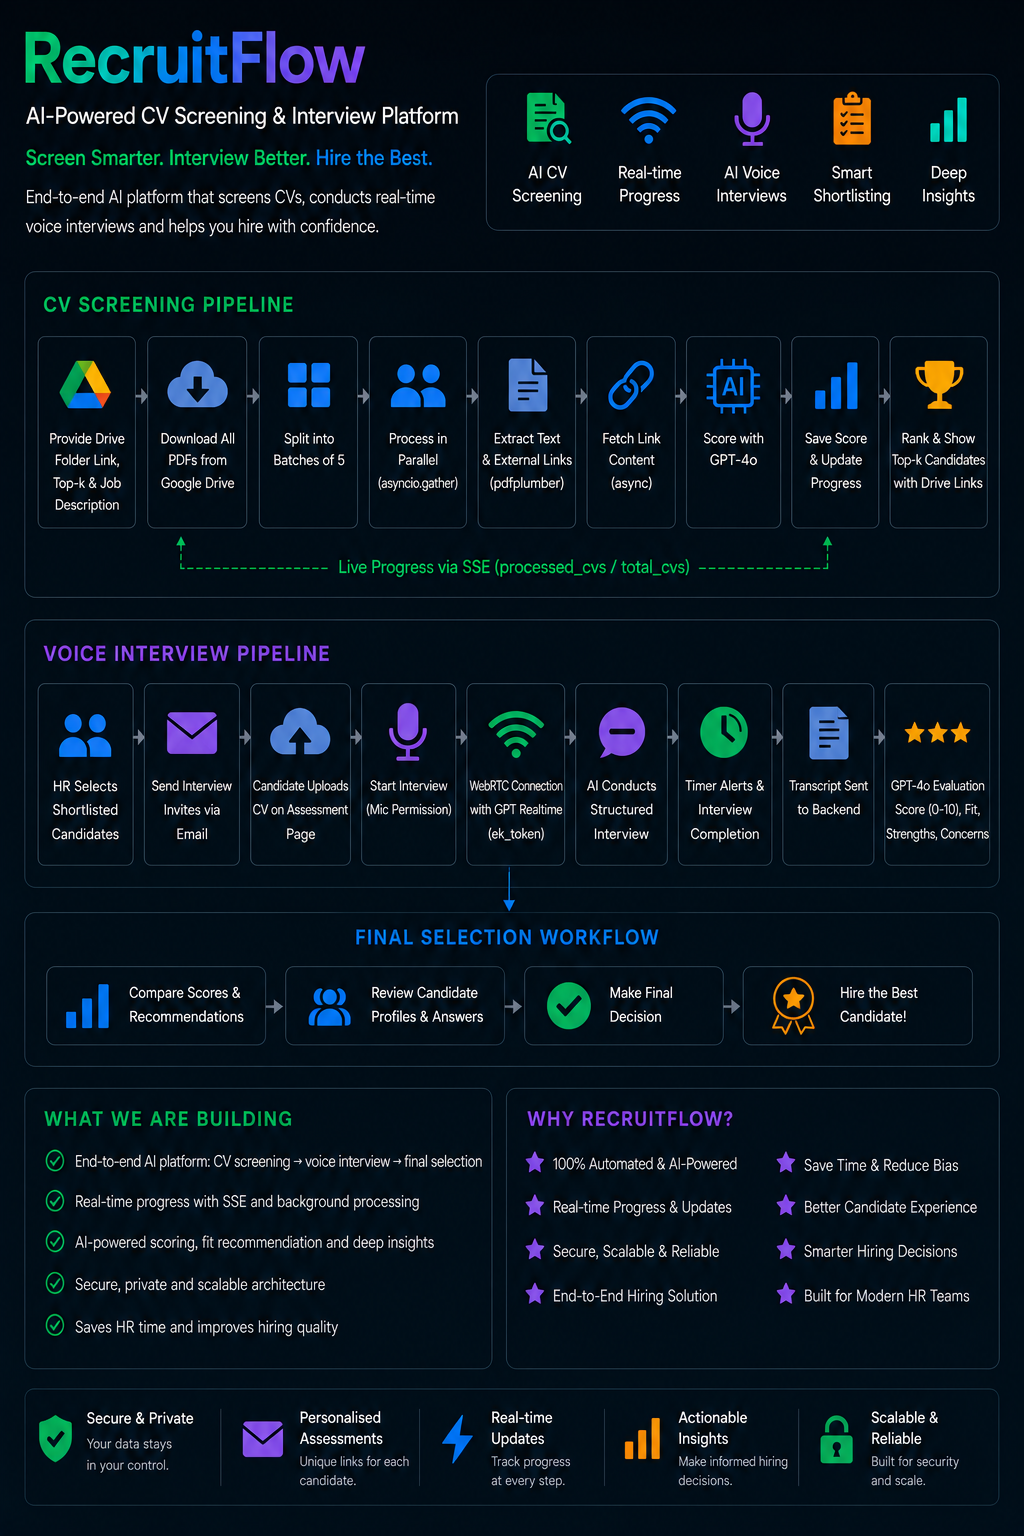
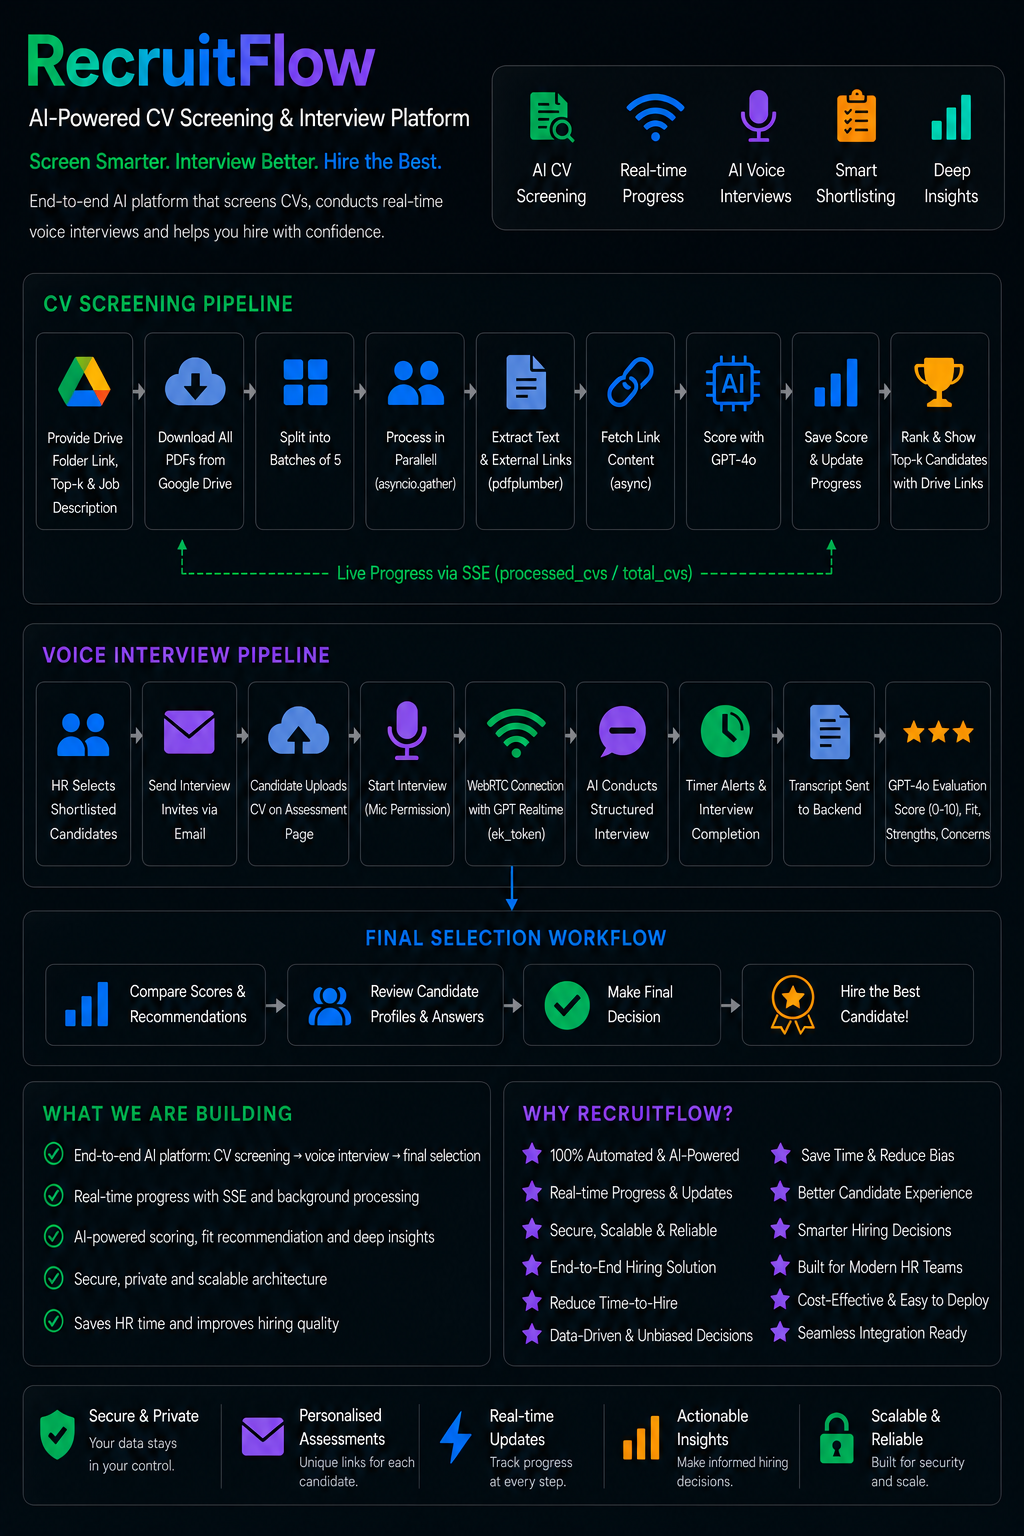
Update README

diff --git a/README.md b/README.md
@@ -19,8 +19,9 @@ RecruitFlow transforms traditional hiring into a faster, smarter, and more scala
 ## Problem Statement
 Build an AI-powered recruitment assistant that automates CV screening, ranks candidates against a job description, and conducts timed AI assessments to reduce manual HR effort and improve hiring speed/quality.
 
-## Demo Video Link
-- Add your demo link here: `https://your-demo-link-here`
+## Demo Video
+- [RecruitFlow-How to use](https://drive.google.com/file/d/1bHjALqD6gJzcHbBCa2-0py6kWJSyF6xl/view?usp=sharing)
+- [RecruitFlow-Explanation](https://drive.google.com/file/d/1C5PsgChLSkwswBjq6V3BYzNntNw-Q94Y/view?usp=sharing)
 
 ## Features & Functionalities
 - HR login/register with JWT auth
@@ -457,45 +458,42 @@ Open `http://localhost:8000`
 
 ---
 
-## Screenshots (Optional)
-1. `screenshot-224`
-![screenshot-224](docs/screenshots/screenshot-224.png)
+## Screenshots
+1. `Step 01 - Auth Register`
+![Step 01 - Auth Register](docs/screenshots/step-01-auth-register.png)
 
-2. `screenshot-226`
-![screenshot-226](docs/screenshots/screenshot-226.png)
+2. `Step 02 - New Screening Job Form`
+![Step 02 - New Screening Job Form](docs/screenshots/step-02-new-screening-job-form.png)
 
-3. `screenshot-227`
-![screenshot-227](docs/screenshots/screenshot-227.png)
+3. `Step 03 - Drive Scan In Progress`
+![Step 03 - Drive Scan In Progress](docs/screenshots/step-03-drive-scan-in-progress.png)
 
-4. `screenshot-228`
-![screenshot-228](docs/screenshots/screenshot-228.png)
+4. `Step 04 - Top Candidates Dashboard`
+![Step 04 - Top Candidates Dashboard](docs/screenshots/step-04-top-candidates-dashboard.png)
 
-5. `screenshot-229`
-![screenshot-229](docs/screenshots/screenshot-229.png)
+5. `Step 05 - Send Shortlist Email Modal`
+![Step 05 - Send Shortlist Email Modal](docs/screenshots/step-05-send-shortlist-email-modal.png)
 
-6. `screenshot-231`
-![screenshot-231](docs/screenshots/screenshot-231.png)
+6. `Step 06 - Shortlist Email Inbox`
+![Step 06 - Shortlist Email Inbox](docs/screenshots/step-06-shortlist-email-inbox.png)
 
-7. `screenshot-232`
-![screenshot-232](docs/screenshots/screenshot-232.png)
+7. `Step 07 - Shortlist Email Link Preview`
+![Step 07 - Shortlist Email Link Preview](docs/screenshots/step-07-shortlist-email-link-preview.png)
 
-8. `screenshot-233`
-![screenshot-233](docs/screenshots/screenshot-233.png)
+8. `Step 08 - Assessment CV Upload`
+![Step 08 - Assessment CV Upload](docs/screenshots/step-08-assessment-cv-upload.png)
 
-9. `screenshot-234`
-![screenshot-234](docs/screenshots/screenshot-234.png)
+9. `Step 09 - Assessment Ready Screen`
+![Step 09 - Assessment Ready Screen](docs/screenshots/step-09-assessment-ready-screen.png)
 
-10. `screenshot-235`
-![screenshot-235](docs/screenshots/screenshot-235.png)
+10. `Step 10 - Live AI Interview`
+![Step 10 - Live AI Interview](docs/screenshots/step-10-live-ai-interview.png)
 
-11. `screenshot-236`
-![screenshot-236](docs/screenshots/screenshot-236.png)
+11. `Step 11 - Interview Complete Screen`
+![Step 11 - Interview Complete Screen](docs/screenshots/step-11-interview-complete-screen.png)
 
-12. `screenshot-237`
-![screenshot-237](docs/screenshots/screenshot-237.png)
+12. `Step 12 - Assessment Summary Modal`
+![Step 12 - Assessment Summary Modal](docs/screenshots/step-12-assessment-summary-modal.png)
 
-13. `screenshot-238`
-![screenshot-238](docs/screenshots/screenshot-238.png)
-
-14. `screenshot-239`
-![screenshot-239](docs/screenshots/screenshot-239.png)
+13. `Step 13 - Assessment Tag on Results`
+![Step 13 - Assessment Tag on Results](docs/screenshots/step-13-assessment-tag-on-results.png)